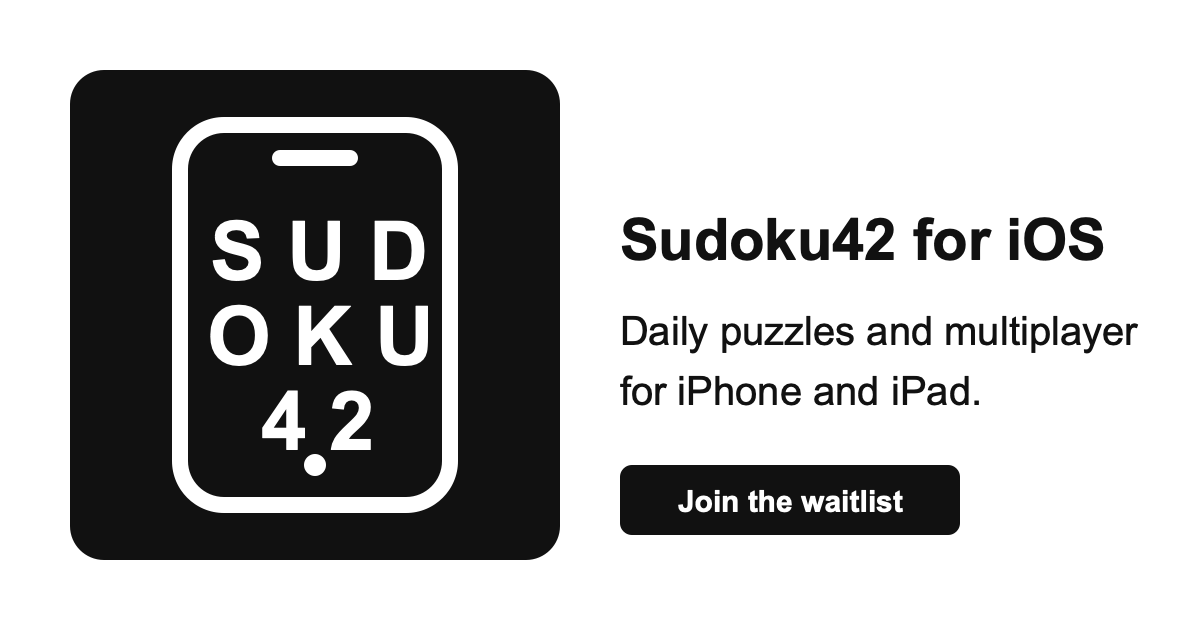
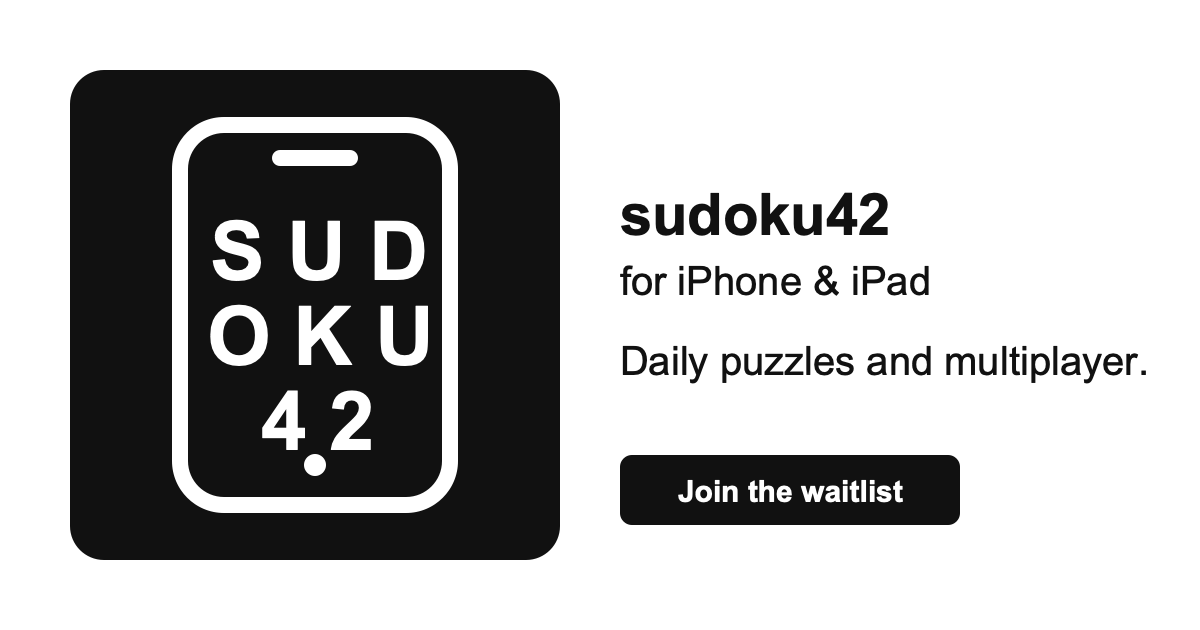
feat(waitlist): refine iPhone launch copy

Changed region(s): [[0.4933, 0.3016, 0.9558, 0.6635], [0.4933, 0.7238, 0.8017, 0.8746]]

diff --git a/iOS/index.html b/iOS/index.html
@@ -3,52 +3,52 @@
 <head>
   <meta charset="utf-8">
   <meta name="viewport" content="width=device-width, initial-scale=1">
-  <title>Sudoku42 for iOS — Waitlist</title>
-  <meta name="description" content="Daily puzzles and real-time multiplayer Sudoku for iPhone and iPad. Join the waitlist for an email when the iOS version is ready.">
+  <title>sudoku42 for iPhone &amp; iPad — Waitlist</title>
+  <meta name="description" content="sudoku42 is nearly ready for iPhone and iPad. Join the waitlist to hear when it is ready.">
   <link rel="canonical" href="https://sudoku42.com/iOS/">
   <meta property="og:type" content="website">
-  <meta property="og:title" content="Sudoku42 for iOS">
-  <meta property="og:description" content="Join the waitlist for an email when the iOS version is ready.">
+  <meta property="og:title" content="sudoku42 for iPhone &amp; iPad">
+  <meta property="og:description" content="Join the waitlist to hear when it is ready.">
   <meta property="og:url" content="https://sudoku42.com/iOS/">
   <meta property="og:image" content="https://sudoku42.com/img/ios-waitlist-preview.png">
   <meta property="og:image:width" content="1200">
   <meta property="og:image:height" content="630">
   <meta name="twitter:card" content="summary_large_image">
   <link rel="icon" href="../icon.png">
-  <link rel="stylesheet" href="style.css">
+  <link rel="stylesheet" href="style.css?v=2">
   <script src="app.js?v=2" defer></script>
 </head>
 <body>
   <div class="page">
     <header><a href="/" class="brand"><img src="../icon.png" width="24" height="24" alt="">sudoku42</a></header>
     <main>
-      <h1>Sudoku42 for iOS ✨</h1>
-      <p>I’m bringing Sudoku42 to iPhone and iPad, with daily puzzles and real-time multiplayer.</p>
+      <h1><span class="brand-name">sudoku42</span> for iPhone &amp; iPad ✨</h1>
       <section id="signup" aria-label="Join the waitlist">
-        <p>Before paying for an Apple developer membership, I’d like to see how many people are interested.</p>
+        <p><span class="brand-name">sudoku42</span> for iPhone &amp; iPad is almost ready. Before I pay the yearly Apple developer fee, I want to know there are enough people who actually want it.</p>
+        <p>When <span class="target">100</span> people join the waitlist, I’ll publish it!</p>
         <form id="waitlist-form">
           <label for="email">Email address</label>
           <input id="email" name="email" type="email" autocomplete="email" placeholder="you@example.com" maxlength="254" required>
           <button type="submit" id="join-button">Join the waitlist</button>
-          <p class="fine-print">By joining, you agree to an email when the iOS version is ready. No newsletter. <a href="mailto:manuel@sudoku42.com?subject=Remove%20me%20from%20the%20iOS%20waitlist">Leave anytime</a>.</p>
+          <p class="fine-print">By joining, you agree to an email when <span class="brand-name">sudoku42</span> for iPhone &amp; iPad is ready. No newsletter. <a href="mailto:manuel@sudoku42.com?subject=Remove%20me%20from%20the%20iOS%20waitlist">Leave anytime</a>.</p>
           <p class="status" id="form-status" role="status" aria-live="polite"></p>
         </form>
         <noscript><p>Please enable JavaScript to sign up, or <a href="mailto:manuel@sudoku42.com?subject=iOS%20waitlist">email me to join</a>.</p></noscript>
       </section>
       <section id="success" aria-labelledby="success-title" hidden>
-        <h2 id="success-title" tabindex="-1">You’re on the list! 🎉</h2>
-        <p>I’ll email you when the iOS version is ready.</p>
+        <h2 id="success-title" tabindex="-1">You’re in! 🎉</h2>
+        <p>I’ll email you when <span class="brand-name">sudoku42</span> for iPhone &amp; iPad is ready.</p>
       </section>
       <section class="sharing" id="sharing" aria-label="Share the waitlist" hidden>
-        <h2>Please share this page</h2>
-        <p>📣 More people on the waitlist means I can move ahead with the iOS release sooner.</p>
+        <h2>Now bring someone with you. 😈</h2>
+        <p><span class="brand-name">sudoku42</span> gets better when there are more people to play with. More people on the waitlist means I can publish sooner.</p>
         <button id="share-button" type="button">Share the waitlist ↗</button>
         <div id="share-fallback" hidden>
           <label for="share-url">Link to share</label>
           <input id="share-url" type="url" value="https://sudoku42.com/iOS/?utm_source=friend&amp;utm_campaign=ios_waitlist" readonly>
           <button class="secondary" id="copy-button" type="button">Copy link</button>
         </div>
-        <a id="email-share" href="mailto:?subject=Sudoku42%20for%20iOS&amp;body=Sudoku42%20is%20coming%20to%20iPhone%20and%20iPad.%20Join%20the%20waitlist%20to%20hear%20when%20it%E2%80%99s%20ready.%0A%0Ahttps%3A%2F%2Fsudoku42.com%2FiOS%2F%3Futm_source%3Dfriend%26utm_campaign%3Dios_waitlist">Share by email</a>
+        <a id="email-share" href="mailto:?subject=sudoku42%20for%20iPhone%20%26%20iPad&amp;body=sudoku42%20is%20almost%20ready%20for%20iPhone%20and%20iPad.%20Join%20the%20waitlist%20to%20hear%20when%20it%E2%80%99s%20ready.%0A%0Ahttps%3A%2F%2Fsudoku42.com%2FiOS%2F%3Futm_source%3Dfriend%26utm_campaign%3Dios_waitlist">Share by email</a>
         <p class="status" id="share-status" role="status" aria-live="polite"></p>
       </section>
     </main>

diff --git a/iOS/app.js b/iOS/app.js
@@ -1,7 +1,7 @@
 "use strict";
 const endpoint = "https://us-central1-sudoku42xyz.cloudfunctions.net/waitlist";
 const campaignUrl = "https://sudoku42.com/iOS/?utm_source=friend&utm_campaign=ios_waitlist";
-const shareText = "Sudoku42 is coming to iPhone and iPad. Join the waitlist to hear when it’s ready.";
+const shareText = "sudoku42 is almost ready for iPhone and iPad. Join the waitlist to hear when it’s ready.";
 const form = document.getElementById("waitlist-form");
 const formStatus = document.getElementById("form-status");
 const joinButton = document.getElementById("join-button");
@@ -67,7 +67,7 @@ async function share() {
   shareStatus.textContent = "";
   if (navigator.share) {
     try {
-      await navigator.share({ title: "Sudoku42 for iOS", text: shareText, url: campaignUrl });
+      await navigator.share({ title: "sudoku42 for iPhone & iPad", text: shareText, url: campaignUrl });
       return;
     } catch (error) {
       if (error.name === "AbortError") return;

diff --git a/iOS/style.css b/iOS/style.css
@@ -7,6 +7,7 @@
   --button: #222;
   --button-text: #fff;
   --error: #b3261e;
+  --accent: #bd5d32;
 }
 * {
   box-sizing: border-box;
@@ -47,6 +48,14 @@ h2 {
 }
 p {
   margin: 0 0 16px;
+}
+.target {
+  color: var(--accent);
+  font-weight: 700;
+}
+.brand-name {
+  color: inherit;
+  font-weight: 700;
 }
 form, #success {
   margin-top: 24px;
